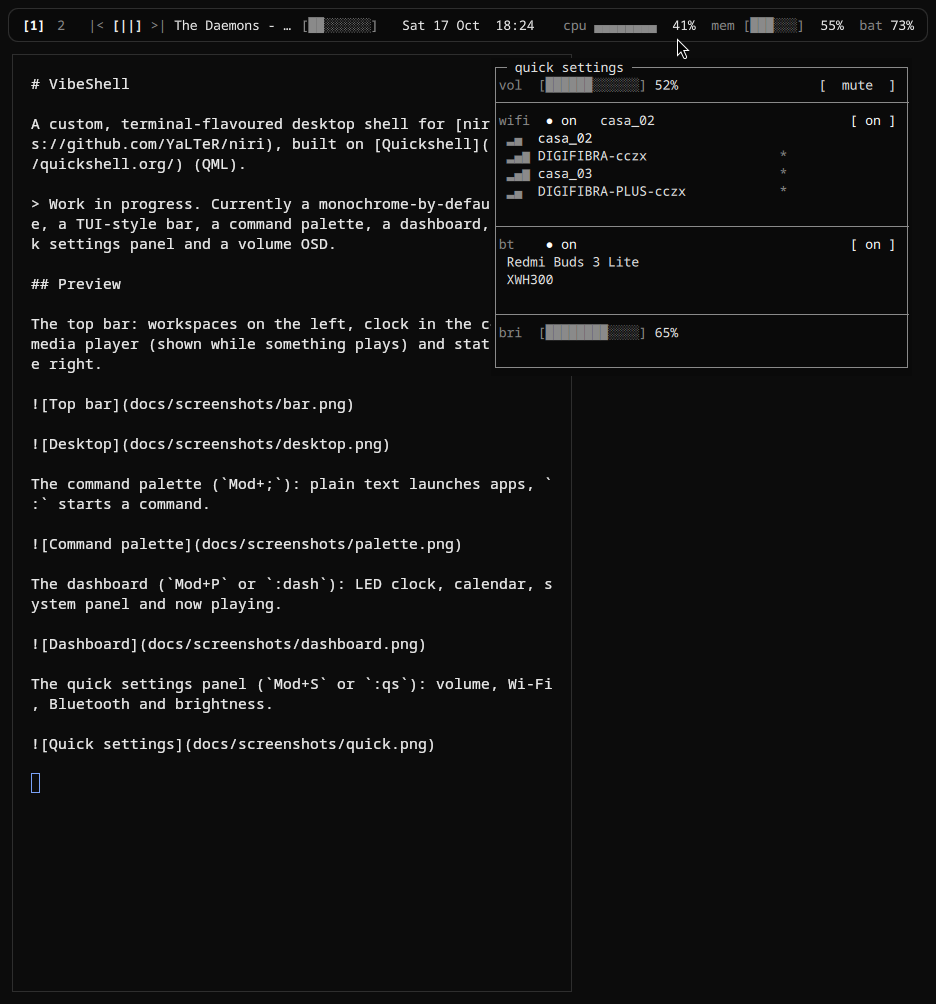
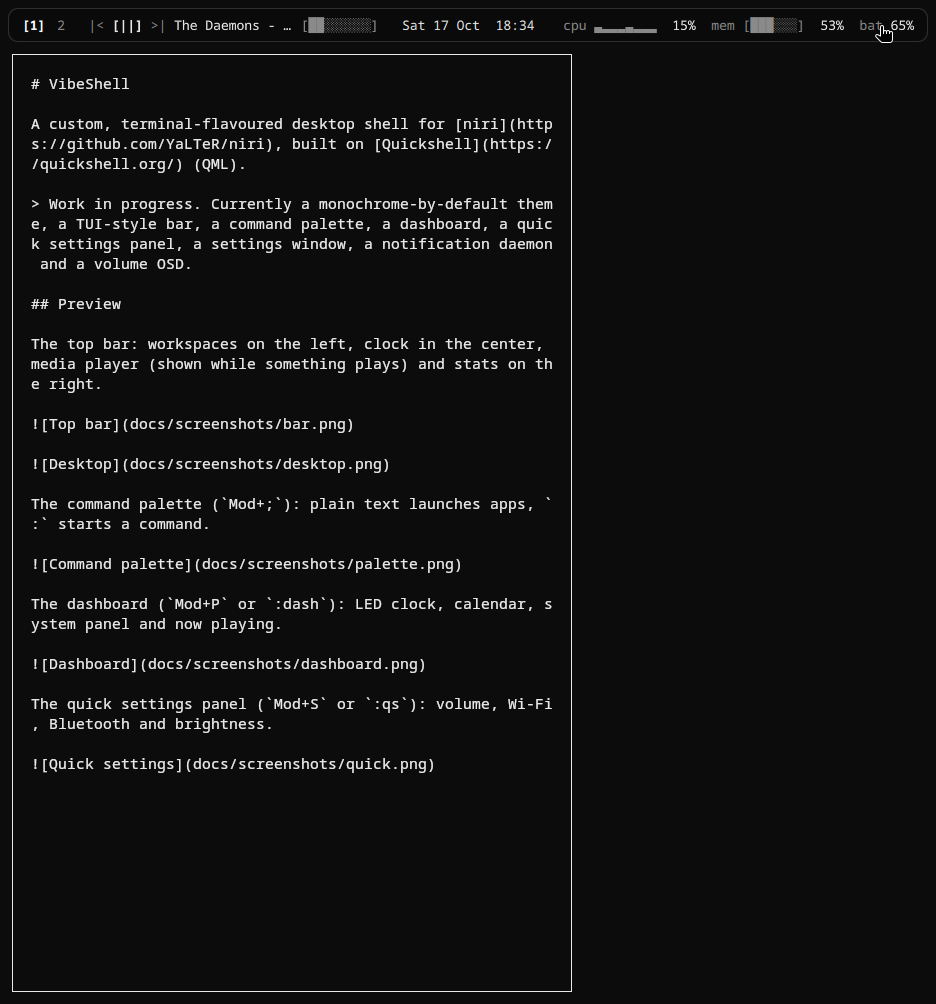
Add a notification daemon with TUI popups

diff --git a/shell/notify/NotifyCard.qml b/shell/notify/NotifyCard.qml
@@ -1,0 +1,85 @@
+import Quickshell.Services.Notifications
+import QtQuick
+import qs
+import qs.components
+import qs.services
+
+// One notification drawn as a TUI card: the app name sits in the frame title, the
+// summary and body fill the inner rows, and any actions become clickable
+// shortcuts on the last row. Clicking the card (or its timer running out)
+// dismisses it.
+TuiFrame {
+    id: root
+
+    required property var notification
+
+    readonly property var n: notification
+    readonly property color tint: n.urgency === NotificationUrgency.Critical ? Theme.urgent : n.urgency === NotificationUrgency.Low ? Theme.dim : Theme.accent
+
+    readonly property var bodyList: {
+        if (!n.body)
+            return [];
+        return n.body.replace(/\s+$/, "").split("\n").slice(0, 3);
+    }
+    readonly property int actionRows: n.actions.length > 0 ? 1 : 0
+
+    cols: 44
+    rows: 2 + 1 + bodyList.length + actionRows
+    title: n.appName || "notification"
+    color: Theme.dim
+
+    // Dismiss on click; sits below the action shortcuts so those win.
+    MouseArea {
+        anchors.fill: parent
+        cursorShape: Qt.PointingHandCursor
+        onClicked: Notifications.dismiss(root.n)
+    }
+
+    Txt {
+        width: parent.width
+        elide: Text.ElideRight
+        color: root.tint
+        text: root.n.summary
+    }
+
+    Repeater {
+        model: root.bodyList
+
+        delegate: Txt {
+            required property string modelData
+            required property int index
+            y: (1 + index) * Theme.cellH
+            width: parent.width
+            elide: Text.ElideRight
+            color: Theme.fg
+            text: modelData
+        }
+    }
+
+    Row {
+        y: (1 + root.bodyList.length) * Theme.cellH
+        spacing: Theme.cellW * 3
+
+        Repeater {
+            model: root.actionRows > 0 ? root.n.actions : []
+
+            delegate: Txt {
+                required property var modelData
+                text: `[ ${modelData.text} ]`
+                color: Theme.accent
+
+                MouseArea {
+                    anchors.fill: parent
+                    cursorShape: Qt.PointingHandCursor
+                    onClicked: modelData.invoke()
+                }
+            }
+        }
+    }
+
+    Timer {
+        interval: Math.round(Notifications.lifetimeMs(root.n))
+        running: !Notifications.sticky(root.n)
+        onTriggered: Notifications.dismiss(root.n)
+    }
+}

diff --git a/shell/services/Notifications.qml b/shell/services/Notifications.qml
@@ -1,0 +1,59 @@
+pragma Singleton
+
+import Quickshell
+import Quickshell.Services.Notifications
+import QtQuick
+import qs
+
+// Notification daemon: quickshell owns org.freedesktop.Notifications and the
+// notify/ popup draws whatever arrives as TUI cards. Nothing else on the session
+// must claim that bus name (no dunst/mako at the same time).
+Singleton {
+    id: root
+
+    // All tracked notifications, oldest first.
+    readonly property var all: server.trackedNotifications.values
+
+    // What the popup shows: the newest few, newest first.
+    readonly property var popup: root.all.slice(-Settings.data.notify.max).reverse()
+
+    // How long a notification lives, in milliseconds. Applications send this in
+    // milliseconds; when they send none we use `notify.timeout` (seconds).
+    function lifetimeMs(n) {
+        return n.expireTimeout > 0 ? n.expireTimeout : Settings.data.notify.timeout * 1000;
+    }
+
+    // Critical and resident notifications stay until dismissed.
+    function sticky(n) {
+        return n.resident || n.urgency === NotificationUrgency.Critical;
+    }
+
+    function dismiss(n) {
+        n.dismiss();
+    }
+
+    function clear() {
+        for (const n of root.all)
+            n.dismiss();
+    }
+
+    NotificationServer {
+        id: server
+
+        // Keep notifications across a shell reload.
+        keepOnReload: true
+
+        // We draw plain text only, but support actions and images being sent.
+        bodySupported: true
+        bodyMarkupSupported: false
+        actionsSupported: true
+        actionIconsSupported: false
+        imageSupported: false
+        inlineReplySupported: false
+        persistenceSupported: false
+
+        onNotification: notification => {
+            notification.tracked = true;
+        }
+    }
+}

diff --git a/shell/notify/Notify.qml b/shell/notify/Notify.qml
@@ -1,0 +1,57 @@
+import Quickshell
+import Quickshell.Io
+import Quickshell.Wayland
+import QtQuick
+import qs
+import qs.services
+
+// Stack of notification cards in the top-right corner. Shown whenever anything is
+// tracked; each card times itself out (see NotifyCard). Dismiss the whole stack
+// with `Notifications.clear()` over IPC or the palette's `:notify`.
+Scope {
+    IpcHandler {
+        target: "notify"
+
+        function clear(): void {
+            Notifications.clear();
+        }
+    }
+
+    PanelWindow {
+        id: win
+
+        visible: Notifications.popup.length > 0
+        color: "transparent"
+        exclusionMode: ExclusionMode.Ignore
+        WlrLayershell.layer: WlrLayer.Overlay
+        WlrLayershell.keyboardFocus: WlrKeyboardFocus.None
+        WlrLayershell.namespace: "vibeshell-notify"
+
+        // Top-right corner, clear of the bar.
+        anchors {
+            top: true
+            right: true
+        }
+        margins {
+            top: Theme.gap * 2 + Theme.barHeight
+            right: Theme.gap * 2
+        }
+
+        implicitWidth: stack.implicitWidth
+        implicitHeight: stack.implicitHeight
+
+        Column {
+            id: stack
+            spacing: Theme.gap
+
+            Repeater {
+                model: Notifications.popup
+
+                delegate: NotifyCard {
+                    required property var modelData
+                    notification: modelData
+                }
+            }
+        }
+    }
+}

diff --git a/shell/palette/Commands.qml b/shell/palette/Commands.qml
@@ -115,6 +115,17 @@ Singleton {
             }
         },
         {
+            name: "notify",
+            usage: "",
+            desc: "dismiss all notifications",
+            run: () => {
+                Notifications.clear();
+                return {
+                    close: true
+                };
+            }
+        },
+        {
             name: "theme",
             usage: "[name|next]",
             desc: "switch the color palette",

diff --git a/shell/settings/SettingsWindow.qml b/shell/settings/SettingsWindow.qml
@@ -32,6 +32,14 @@ Scope {
                 step: 100,
                 min: 100
             },
+            "notify.timeout": {
+                step: 1,
+                min: 1
+            },
+            "notify.max": {
+                step: 1,
+                min: 1
+            },
             "bar.height": {
                 step: 1,
                 min: 10

diff --git a/shell/shell.qml b/shell/shell.qml
@@ -1,6 +1,7 @@
 import Quickshell
 import qs.bar
 import qs.dashboard
+import qs.notify
 import qs.osd
 import qs.palette
 import qs.quick
@@ -13,4 +14,5 @@ ShellRoot {
     Osd {}
     QuickSettings {}
     SettingsWindow {}
+    Notify {}
 }

diff --git a/README.md b/README.md
@@ -2,7 +2,7 @@
 
 A custom, terminal-flavoured desktop shell for [niri](https://github.com/YaLTeR/niri), built on [Quickshell](https://quickshell.org/) (QML).
 
-> Work in progress. Currently a monochrome-by-default theme, a TUI-style bar, a command palette, a dashboard, a quick settings panel, a settings window and a volume OSD.
+> Work in progress. Currently a monochrome-by-default theme, a TUI-style bar, a command palette, a dashboard, a quick settings panel, a settings window, a notification daemon and a volume OSD.
 
 ## Preview
 
@@ -27,6 +27,10 @@ The quick settings panel (`Mod+S` or `:qs`): volume, Wi-Fi, Bluetooth and bright
 The settings window (`Mod+Shift+S` or `:settings`): every setting from `defaults`, edited in place.
 
 ![Settings](docs/screenshots/settings.png)
+
+Notifications: VibeShell is the notification daemon, and popups are TUI cards with per-urgency colours.
+
+![Notifications](docs/screenshots/notify.png)
 
 <sub>Screenshots are generated by `dev/screenshots.sh` and refreshed after every finished piece of work.</sub>
 
@@ -65,6 +69,7 @@ Press `Mod+;` (bound by the installer's niri snippet). Type to search applicatio
 | `:dash` | open the dashboard |
 | `:qs` | open the quick settings panel |
 | `:settings` | open the settings window |
+| `:notify` | dismiss all notifications |
 | `:theme [name\|next]` | switch colour palette (`next` cycles) |
 
 `Enter` runs, `Tab` completes, `Up`/`Down` (or `Ctrl+P`/`Ctrl+N`) move, `Esc` closes.
@@ -86,6 +91,7 @@ change values and cycle the palette, `Enter`/`e` types a value, `Esc`/`q` closes
   "font": { "family": "JetBrainsMono Nerd Font", "size": 13 },
   "apps": { "terminal": "kitty" },
   "stats": { "interval": 2000 },
+  "notify": { "timeout": 5, "max": 4 },
   "bar": { "height": 34, "gap": 8, "radius": 10, "borderWidth": 1 }
 }
 ```
@@ -93,6 +99,16 @@ change values and cycle the palette, `Enter`/`e` types a value, `Esc`/`q` closes
 Palettes are JSON files in `shell/palettes/`: `monochrome`, `catppuccin-mocha`,
 `tokyo-night`, `rose-pine`, `nord`, `dracula` and `kanagawa`. Switch at runtime with
 `:theme <name>` (or cycle with `:theme next`); the choice is saved to `settings.json`.
+
+## Notifications
+
+VibeShell owns `org.freedesktop.Notifications`, so it replaces a standalone daemon
+like dunst or mako — don't run one alongside it, or they'll fight over the bus name.
+Popups stack in the top-right corner as TUI cards: the app name in the frame title,
+the summary, the body and any action shortcuts. Critical notifications stay until
+dismissed, the rest time out (`notify.timeout` seconds, or the app's own timeout);
+at most `notify.max` are shown at once. Click a card to dismiss it, or run `:notify`
+(or `... call notify clear`) to clear the stack. Test it with `notify-send "hi"`.
 
 ## Development
 
@@ -111,10 +127,11 @@ shell/       Quickshell config (entry point: shell/shell.qml)
   dashboard/ Dashboard: clock, calendar, system panel, now playing
   quick/     Quick settings: volume, Wi-Fi, Bluetooth, brightness
   settings/  Settings window: edit and save any setting in place
+  notify/    Notification popups (TUI cards)
   osd/       On-screen display (volume)
   palette/   Command palette (UI and command backend)
   components/ Reusable pieces: TuiFrame, Spark, Gauge, Txt, BigClock, Eq
-  services/  Singletons: niri, media, audio, network, bluetooth, brightness, power, stats
+  services/  Singletons: niri, media, audio, network, bluetooth, brightness, power, stats, notifications
   palettes/  Color palettes
   defaults/  Shipped default settings
 dev/         Nested niri sandbox and screenshot generator
@@ -132,5 +149,6 @@ docs/        Screenshots used in this README
 - [x] Volume OSD and media keys
 - [x] Quick settings panel: volume, Wi-Fi, Bluetooth, brightness
 - [x] Settings window
-- [ ] Launcher, notifications, lock screen, greeter
+- [x] Notification daemon and popups
+- [ ] Launcher, lock screen, greeter
 - [ ] App theming (kitty, GTK, VS Code, ...)
